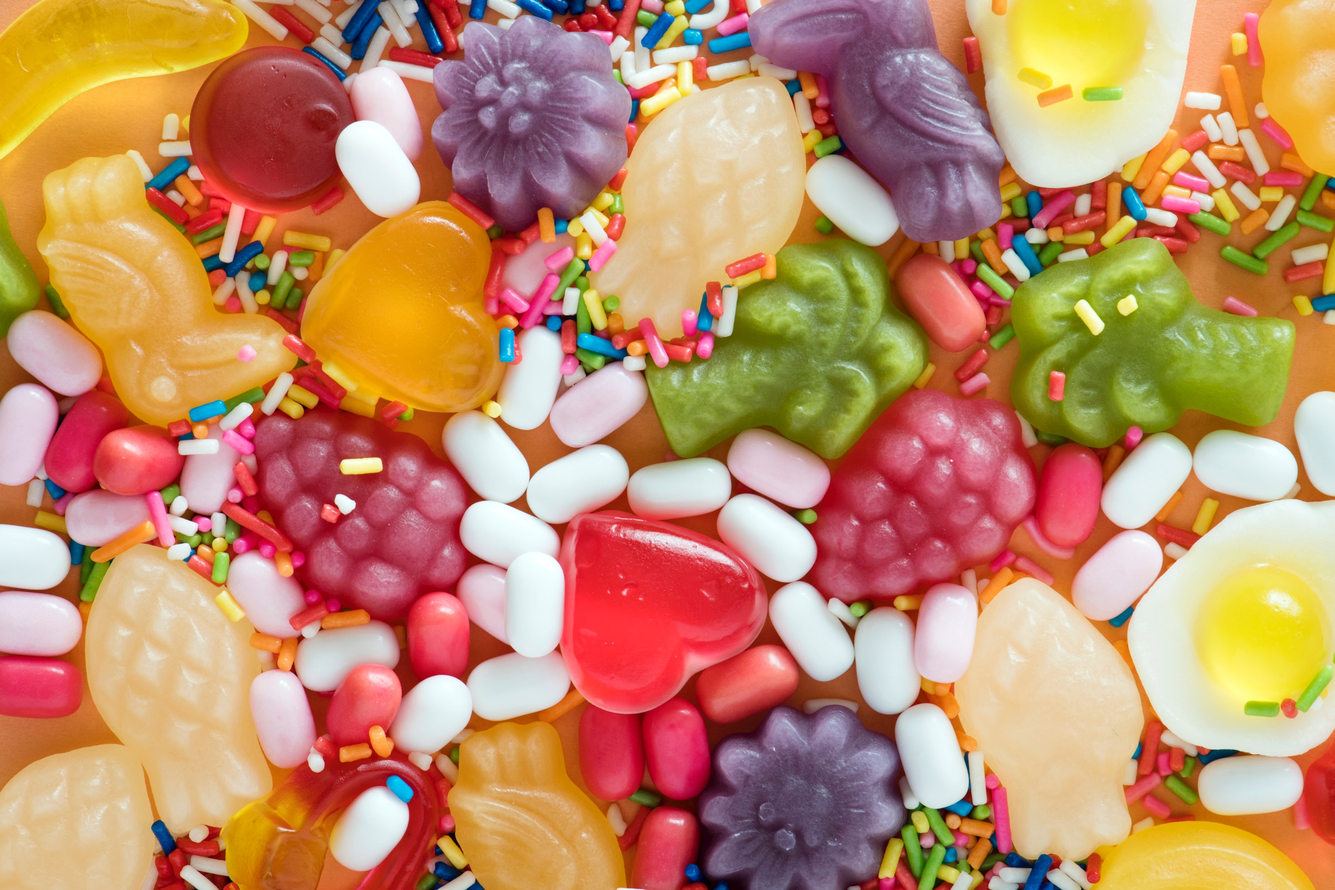
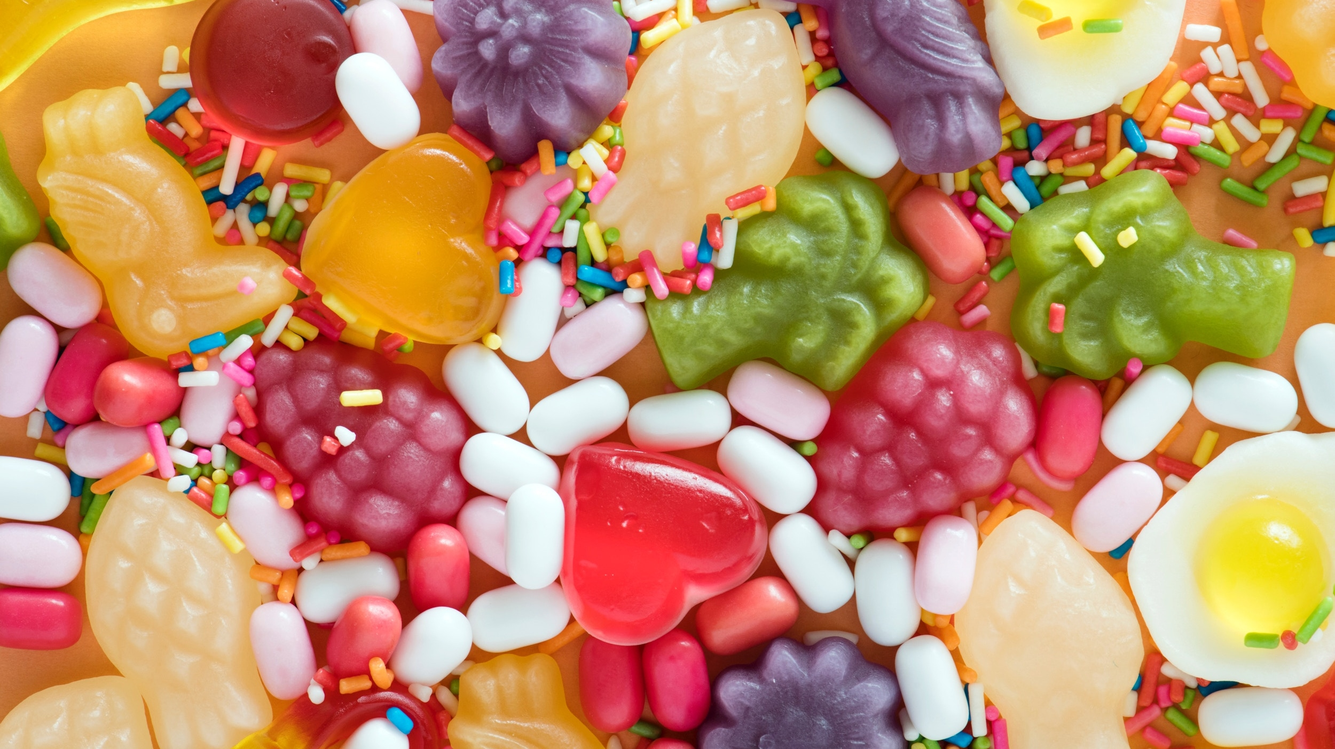
main image handling

diff --git a/src/scss/main.scss b/src/scss/main.scss
@@ -79,9 +79,9 @@ p {
   margin-bottom: 1em;
 }
 
-div.postline, div.postline a, div.photoline {
+div.postline, div.postline a {
   display: inline;
-  color: mix($hX-color, $bg-page-color, 50%);
+  color: $tagline-color;
   font-family: $tagline-font;
   font-weight: 400;
   font-size: 14px;
@@ -91,7 +91,16 @@ div.postline, div.postline a, div.photoline {
 }
 div.photoline {
   text-align: right;
-  margin-bottom: 10px;
+  font-family: $photoline-font;
+  font-weight: 400;
+  font-size: 14px;
+  background: $bg-page-color;
+  opacity: 0.7;
+  margin: -50px 15px 0px;
+  div {
+    color: $photoline-color;
+    padding-top: 10px;
+  }
 }
 
 div.postdate {
@@ -204,7 +213,6 @@ nav {
 
 .main-image img {
   max-width: 100%;
-  max-height: 100%;
   padding: 10px 0px 5px;
 }
 

diff --git a/src/scss/_variables.scss b/src/scss/_variables.scss
@@ -16,6 +16,8 @@ $blue: #BCF4F5;
 $text-color: #333;
 $hX-color: #555;
 $accent-color: #666;
+$photoline-color: #000;
+$tagline-color: #aaa;
 $bg-page-color: #fff;
 $bg-header-color: $yellow; 
 $bg-code: #f5f7ff;
@@ -26,5 +28,6 @@ $body-font: 'Roboto', sans-serif;
 $hX-font: Courgette, sans-serif; 
 $code-font: 'Roboto Mono', monospace;
 $tagline-font: 'Roboto Mono', 'Roboto', sans-serif;
+$photoline-font: 'Roboto Mono', 'Roboto', sans-serif;
 
 

diff --git a/src/site/blog/fourth-post.md b/src/site/blog/fourth-post.md
@@ -1,0 +1,9 @@
+---
+title: Fourth Post Page
+date: 2019-01-13
+mainImageFilename: candy_worms
+---
+
+Another simple page.
+
+Since all post pages are tagged `post` they form a collection and can be easily inspected and iterated over. See that on the [home page](/)

diff --git a/src/site/blog/a-post.md b/src/site/blog/a-post.md
@@ -5,6 +5,8 @@ tags:
   - ssg
   - eleventy
   - jamstack
+mainImageFilename: jellybeans
+mainImageTitle: Sea of Jellybeans
 ---
 
 There's not much here in the sample post page. Better get to work.

diff --git a/src/site/blog/third-post.md b/src/site/blog/third-post.md
@@ -1,6 +1,8 @@
 ---
 title: Third Post Page
 date: 2019-01-12
+mainImageFilename: candy_assorted2
+mainImageTitle: Assortment of Candies
 ---
 
 Another simple page.

diff --git a/src/site/blog/another-post.md b/src/site/blog/another-post.md
@@ -4,6 +4,8 @@ date: 2018-03-28
 tags:
   - ssg
   - eleventy
+mainImageFilename: candy_bg_egg
+mainImageTitle: Eggs over Candy
 ---
 
 Another simple page.
